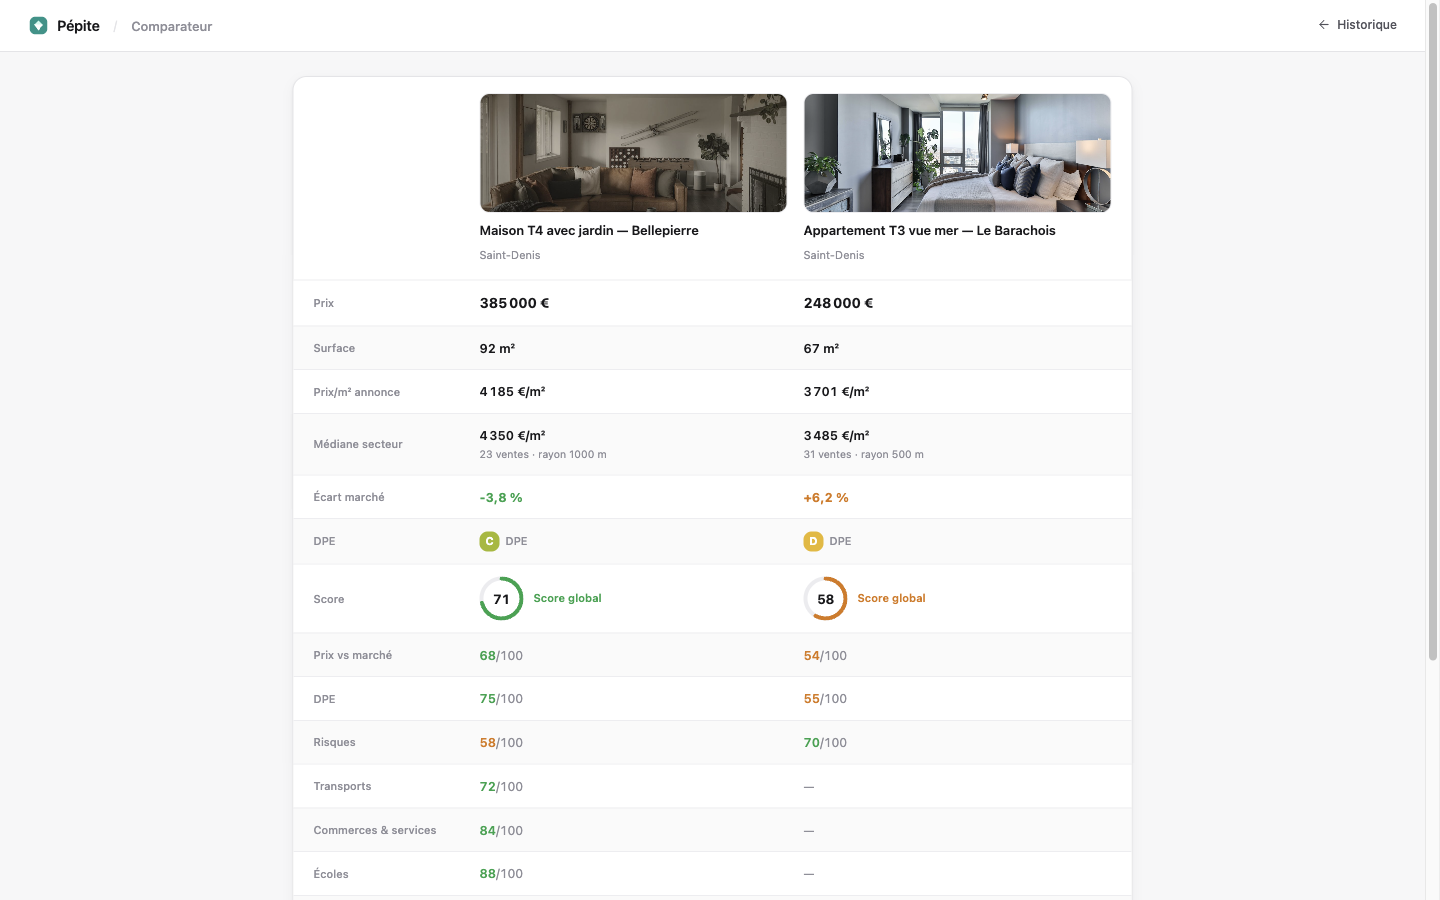
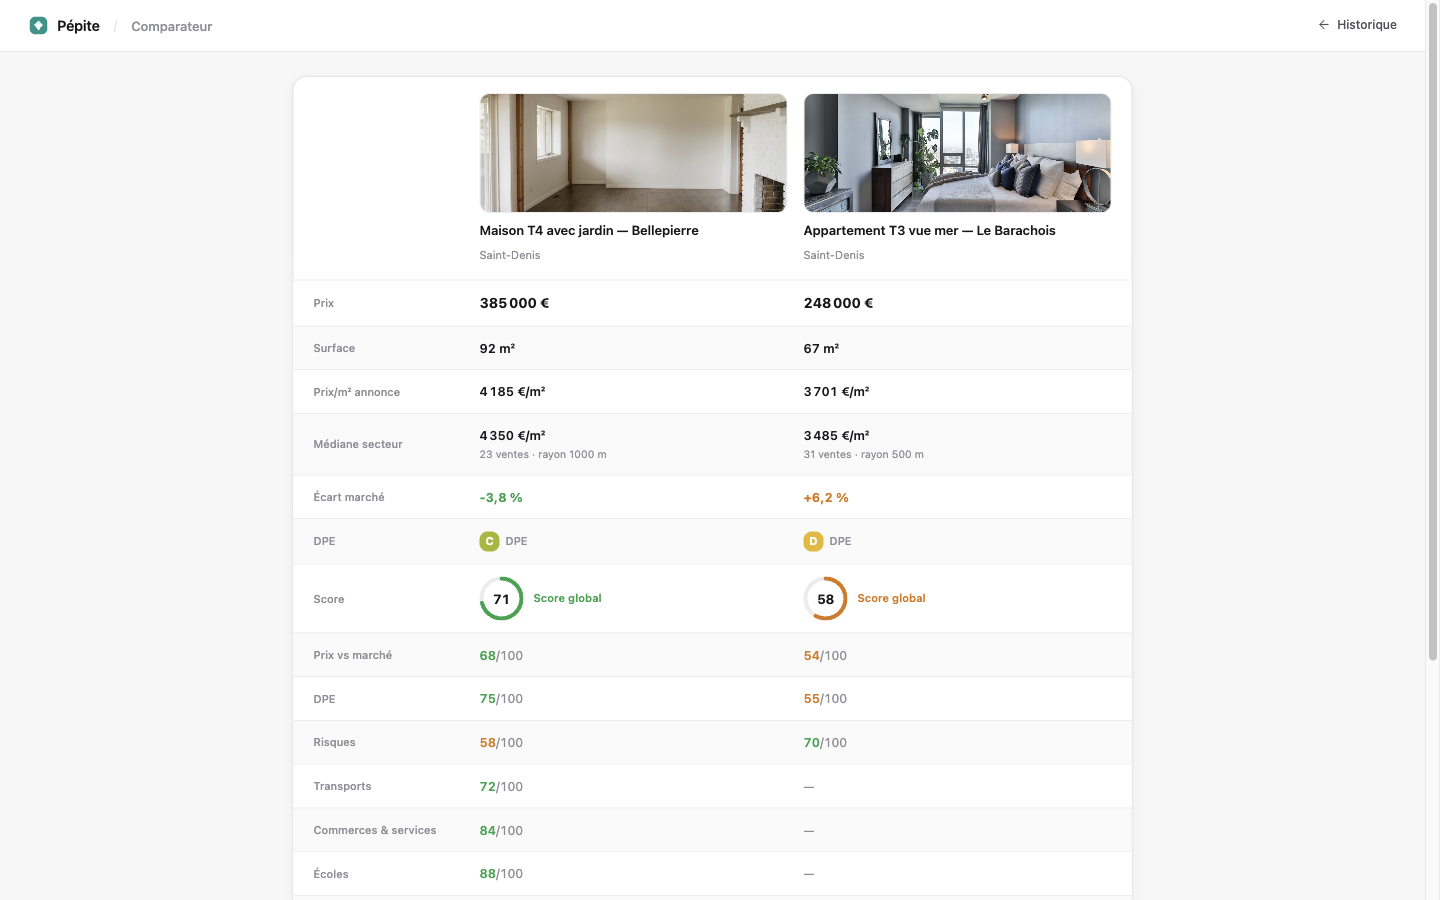
docs(readme): avant/après réel du studio — pièce vide (rendu Gemini) vers salon meublé, curseur à 35 %

Changed region(s): [[0.3125, 0.0933, 0.5625, 0.2489]]

diff --git a/README.md b/README.md
@@ -20,7 +20,7 @@ Leboncoin, SeLoger et Citya (parseurs dédiés, instantanés) ; autres sites imm
 
 ## Galerie
 
-*Captures sur un bien fictif de démonstration — photos [Unsplash](https://unsplash.com/license), données et rendus restyle simulés pour l'illustration.*
+*Captures sur un bien fictif de démonstration — photos [Unsplash](https://unsplash.com/license), données simulées ; l'avant/après du studio est réalisé avec Gemini.*
 
 **Rapport complet** — synthèse IA, score global et recommandation :
 